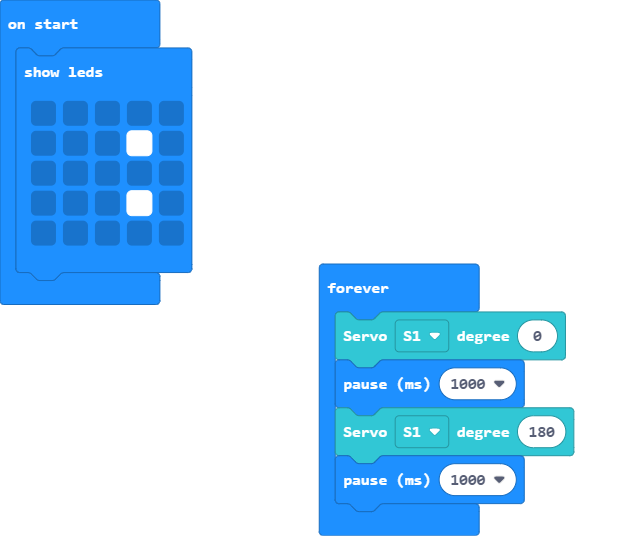
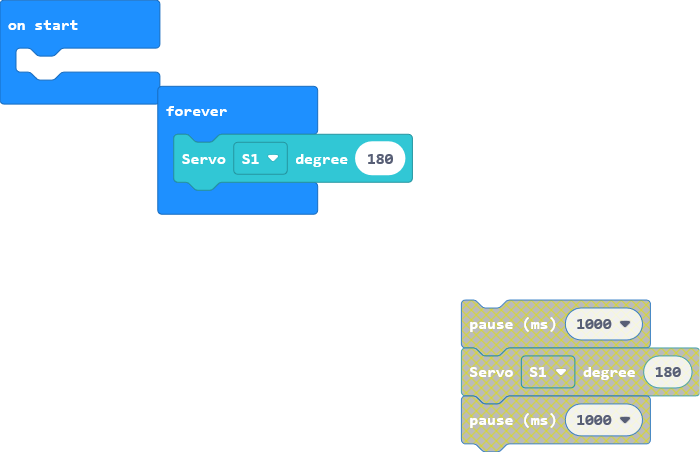
Update main.blocks, main.ts

diff --git a/main.ts b/main.ts
@@ -1,13 +1,3 @@
-basic.showLeds(`
-    . . . . .
-    . . . # .
-    . . . . .
-    . . . # .
-    . . . . .
-    `)
 basic.forever(function () {
-    robotbit.Servo(robotbit.Servos.S1, 0)
-    basic.pause(1000)
     robotbit.Servo(robotbit.Servos.S1, 180)
-    basic.pause(1000)
 })
